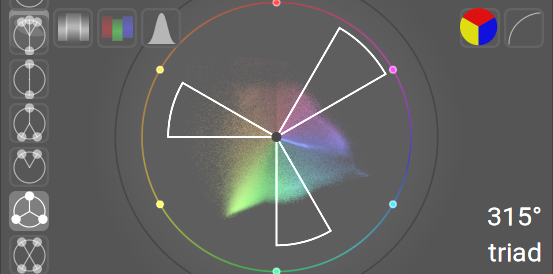
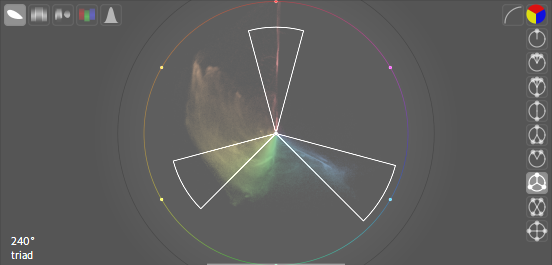
reworked vectorscopes documentation for new split view

diff --git a/content/module-reference/utility-modules/shared/scopes.md b/content/module-reference/utility-modules/shared/scopes.md
@@ -73,15 +73,15 @@ The graph includes a "hue ring" representing the maximum chroma of each hue (in 
 
 ## color harmony and additional vectorscope controls
 
-The vectorscope provides some additional controls beyond those provided by the other modes, which deserve separate discussion. Hovering over the scopes module while in vectorscope mode shows the following additional buttons:
+The vectorscope provides some additional controls beyond those provided by the other modes, which deserve separate discussion. Hovering over the scopes module while in vectorscope mode shows the following additional buttons to the right:
 
 ![vectorscope-options](./scopes/vectorscope-options.png#w50)
 
-Click the right-most button to toggle the chroma scale between linear and logarithmic mode.
+Click the button second to the right to toggle the chroma scale between linear and logarithmic mode.
 
-Click the second-to-right-most button to toggle the color space of the vectorscope between [CIELUV](https://en.wikipedia.org/wiki/CIELUV), [JzAzBz](https://www.osapublishing.org/oe/fulltext.cfm?uri=oe-25-13-15131&id=368272) or [RYB](https://en.wikipedia.org/wiki/RYB_color_model) -- as previously mentioned, these color spaces exclude any luminosity component in this module. The CIELUV graph will be faster to calculate, and is a well-known standard, though JzAzBz may be more perceptually accurate.
+Click the right-most button to toggle the color space of the vectorscope between [CIELUV](https://en.wikipedia.org/wiki/CIELUV), [JzAzBz](https://www.osapublishing.org/oe/fulltext.cfm?uri=oe-25-13-15131&id=368272) or [RYB](https://en.wikipedia.org/wiki/RYB_color_model) -- as previously mentioned, these color spaces exclude any luminosity component in this module. The CIELUV graph will be faster to calculate, and is a well-known standard, though JzAzBz may be more perceptually accurate.
 
-Finally, along the left-hand edge of the module are a series of buttons that allow the selected color harmony indicator to be overlaid on the vectorscope graphic when in RYB color space. For example, the following shows the "triad" color harmony:
+Finally, along the right-hand edge of the module are a series of buttons that allow the selected color harmony indicator to be overlaid on the vectorscope graphic when in RYB color space. For example, the following shows the "triad" color harmony:
 
 ![vectorscope-ch-triad](./scopes/vectorscope-ch-triad.png#w50)
 
@@ -105,6 +105,12 @@ Bear in mind that these controls are provided as a basic guide to achieving colo
 - When adjusting an image based upon a color checker, faster and more accurate results will come from using [calibrate with a color checker](../../processing-modules/color-calibration/#extracting-settings-using-a-color-checker) in the _color calibration_ module.
 - The vectorscope does not have a "skin tone line", which is a flawed generalization rather than a universal standard.
 - The vectorscope represents a colorimetric encoding of an image, which inevitably diverges from a viewer's perception of the image.
+
+# Split Scope Mode
+
+![vectorscope-ch-triad](./scopes/split-mode.png#w50)
+
+Selecting the third scope mode activates split mode with waveform and vectorscope next to each other. This allows for a sense of both the lightness and chromaticity of an image without flipping between scopes. 
 
 # exposure adjustment
 